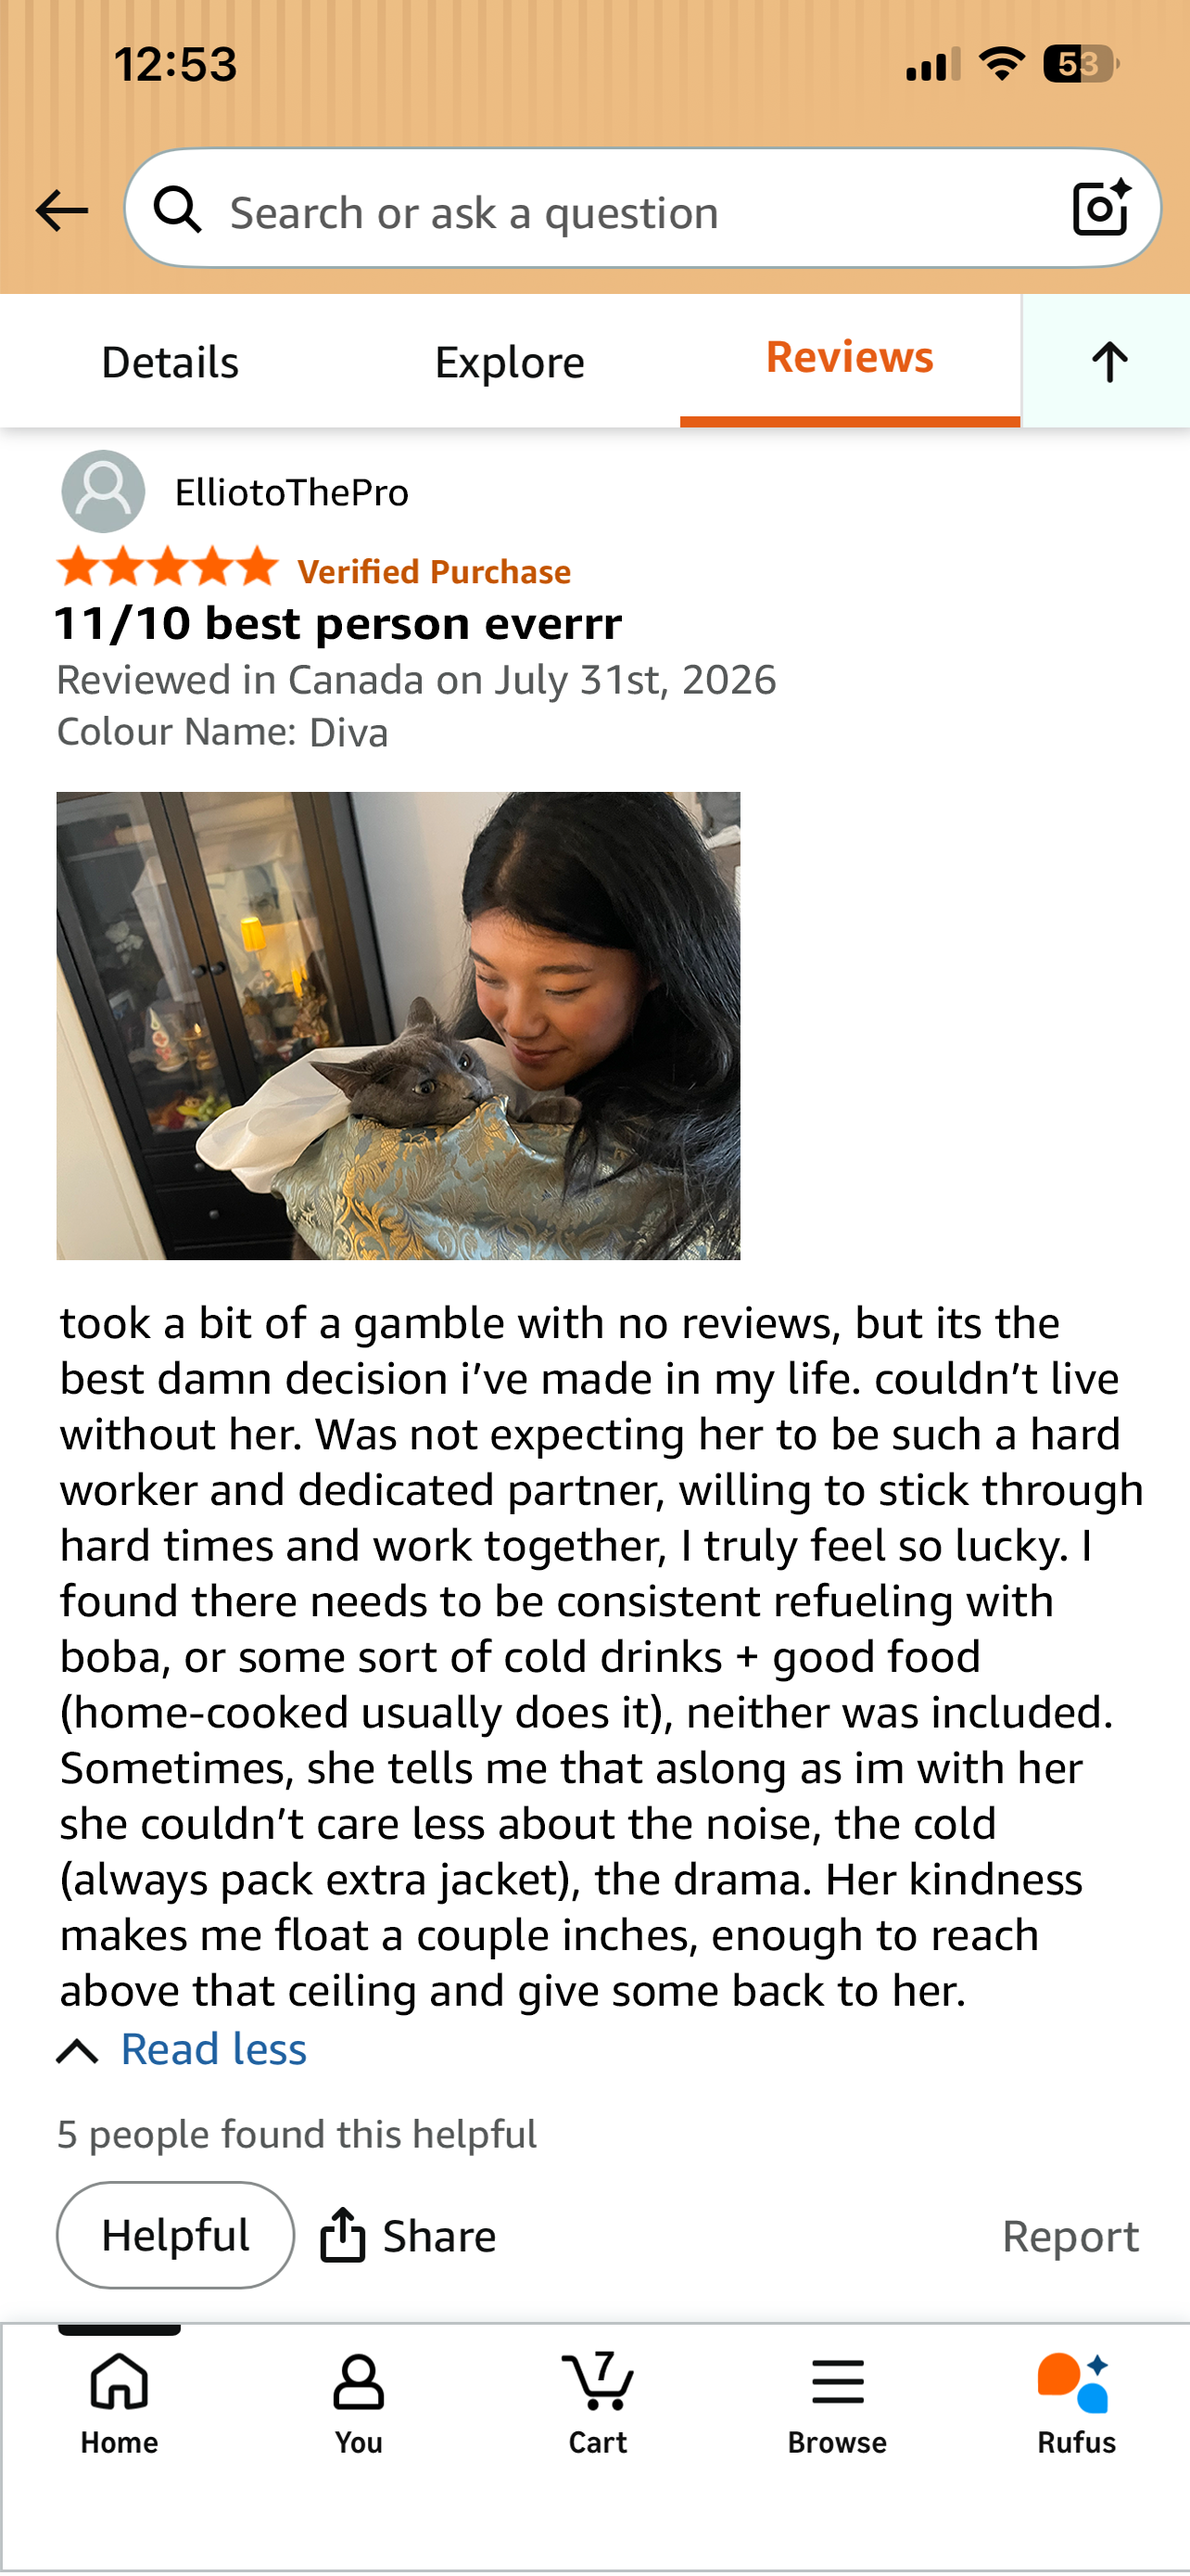
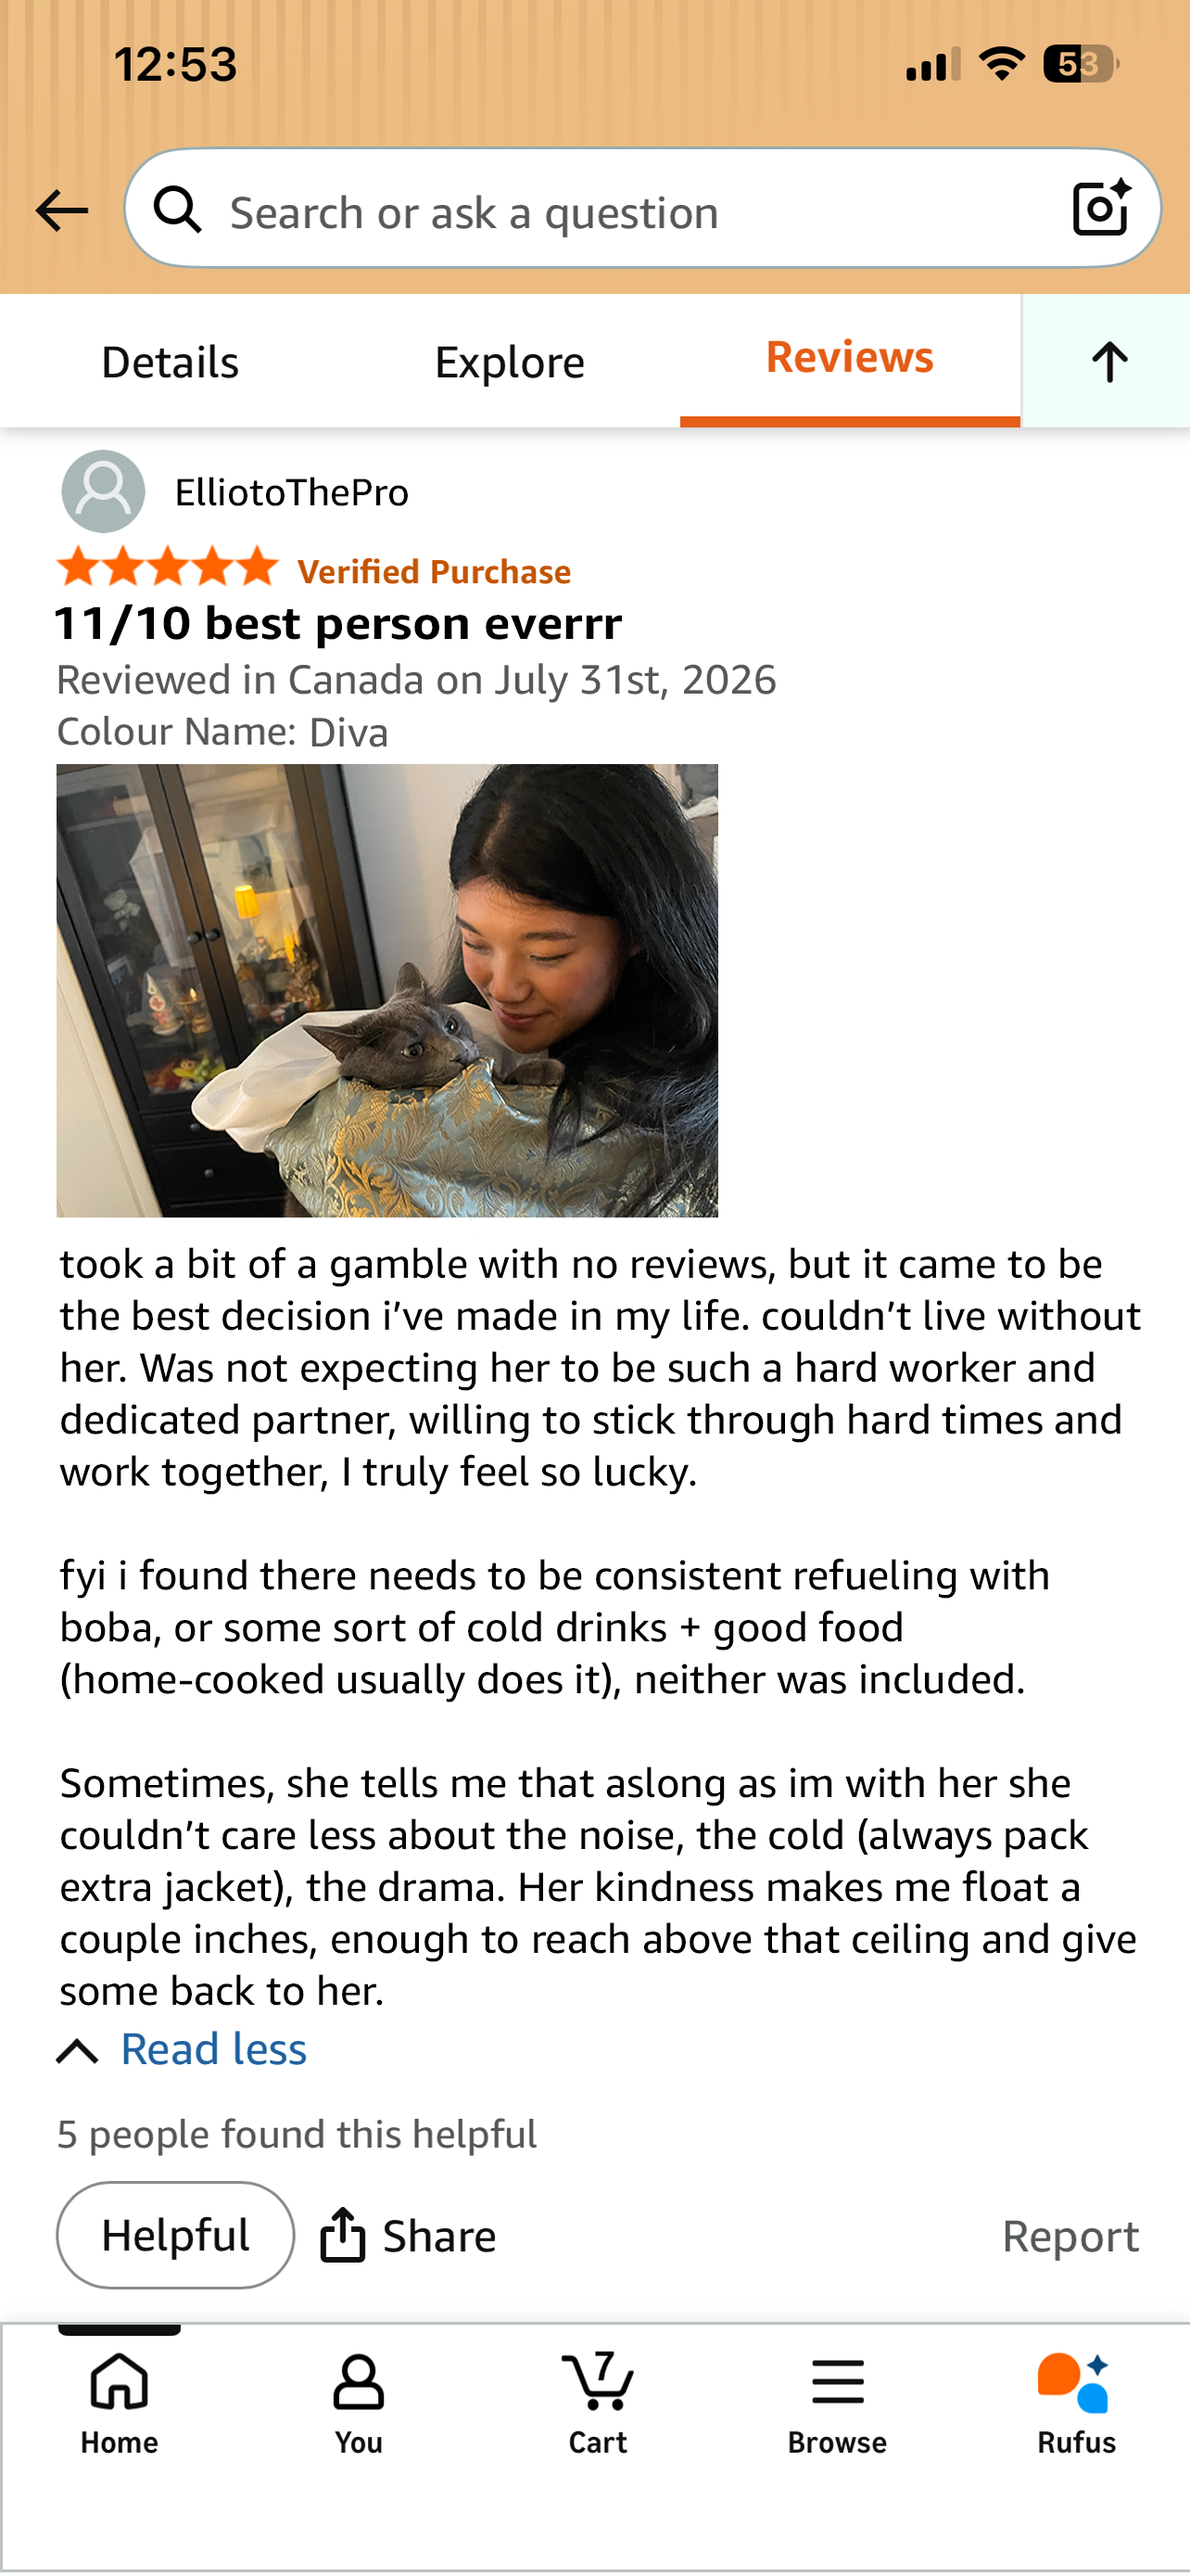
national gfday hotfix

Changed region(s): [[0.0312, 0.2786, 0.9657, 0.8049]]

diff --git a/blog/posts/2026-08-01-girlfriend.html b/blog/posts/2026-08-01-girlfriend.html
@@ -13,13 +13,13 @@
     <div id="header">...</div>
     <div id="content">
       <h1>girlfriend gurlfren gurfre gf</h1> <!--In general, this content is automatically generated for blog posts-->
-      
+
       <br><br>
 
         <img src="../images/2026-08-01-girlfriend/1.png" alt="Japan a1" class="big">
-        <br><br><br><br><br><br><br><br><br><br><br><br>
+        <h2><strong>\/ scroll \/</strong></h2><br><br><br><br><br><br><br><br><br><br><br><br>
         <img src="../images/2026-08-01-girlfriend/2.png" alt="Japan a2" class="big">
-        <br><br><br><br><br><br><br><br><br><br><br><br>
+        <h2><strong>\/ scroll \/</strong></h2><br><br><br><br><br><br><br><br><br><br><br><br>
         <img src="../images/2026-08-01-girlfriend/3.png" alt="Japan a3" class="big">
       
       
